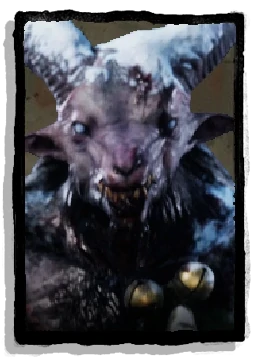
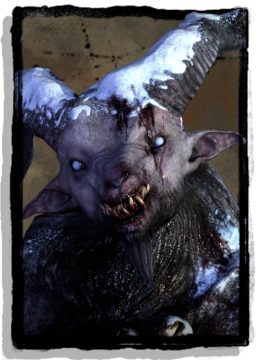
feat: added Chapter 24 survivor and killer, added new ultra rare skins for Oni and Spirit, updated character portraits for various alternate skins

diff --git a/utils/Killers.js b/utils/Killers.js
@@ -27,25 +27,25 @@ export const killersArray = [
         name: "The Nurse",
         image: "https://raw.githubusercontent.com/joeytierney/deadbydaylight-randomizer/main/public/assets/character-portraits/killers/04-the-nurse.png",
         realName: "Sally Smithson",
-        dlc: "CHAPTER I: The Last Breath",
+        dlc: "CHAPTER 1: The Last Breath",
       },
       {
         name: "The Shape",
         image: "https://raw.githubusercontent.com/joeytierney/deadbydaylight-randomizer/main/public/assets/character-portraits/killers/05-the-shape.png",
         realName: "Michael Myers",
-        dlc: "CHAPTER II: HALLOWEEN®",
+        dlc: "CHAPTER 2: HALLOWEEN®",
       },
       {
         name: "The Hag",
         image: "https://raw.githubusercontent.com/joeytierney/deadbydaylight-randomizer/main/public/assets/character-portraits/killers/06-the-hag.png",
         realName: "Lisa Sherwood",
-        dlc: "CHAPTER III: Of Flesh and Mud",
+        dlc: "CHAPTER 3: Of Flesh and Mud",
       },
       {
         name: "The Doctor",
         image: "https://raw.githubusercontent.com/joeytierney/deadbydaylight-randomizer/main/public/assets/character-portraits/killers/07-the-doctor.png",
         realName: "Herman Carter",
-        dlc: "CHAPTER IV: Spark of Madness",
+        dlc: "CHAPTER 4: Spark of Madness",
       },
       {
         name: "The Look-See",
@@ -57,7 +57,7 @@ export const killersArray = [
         name: "The Huntress",
         image: "https://raw.githubusercontent.com/joeytierney/deadbydaylight-randomizer/main/public/assets/character-portraits/killers/08-the-huntress.png",
         realName: "Anna",
-        dlc: "CHAPTER V: A Lullaby for the Dark",
+        dlc: "CHAPTER 5: A Lullaby for the Dark",
       },
       {
         name: "The Mordeo",
@@ -75,61 +75,67 @@ export const killersArray = [
         name: "The Cannibal",
         image: "https://raw.githubusercontent.com/joeytierney/deadbydaylight-randomizer/main/public/assets/character-portraits/killers/09-the-cannibal.png",
         realName: "Bubba Sawyer",
-        dlc: "PARAGRAPH II: LEATHERFACE™",
+        dlc: "PARAGRAPH 2: LEATHERFACE™",
       },
       {
         name: "The Nightmare",
         image: "https://raw.githubusercontent.com/joeytierney/deadbydaylight-randomizer/main/public/assets/character-portraits/killers/10-the-nightmare.png",
         realName: "Freddy Krueger",
-        dlc: "CHAPTER VI: A Nightmare on Elm Street™",
+        dlc: "CHAPTER 6: A Nightmare on Elm Street™",
       },
       {
         name: "The Pig",
         image: "https://raw.githubusercontent.com/joeytierney/deadbydaylight-randomizer/main/public/assets/character-portraits/killers/11-the-pig.png",
         realName: "Amanda Young",
-        dlc: "CHAPTER VII: SAW™",
+        dlc: "CHAPTER 7: SAW™",
       },
       {
         name: "The Clown",
         image: "https://raw.githubusercontent.com/joeytierney/deadbydaylight-randomizer/main/public/assets/character-portraits/killers/12-the-clown.png",
         realName: "Jeffrey Hawk",
-        dlc: "CHAPTER VIII: Curtain Call",
+        dlc: "CHAPTER 8: Curtain Call",
       },
       {
         name: "The Spirit",
         image: "https://raw.githubusercontent.com/joeytierney/deadbydaylight-randomizer/main/public/assets/character-portraits/killers/13-the-spirit.png",
         realName: "Rin Yamaoka",
-        dlc: "CHAPTER IX: Shattered Bloodline",
+        dlc: "CHAPTER 9: Shattered Bloodline",
+      },
+      {
+        name: "The War Hammer Titan",
+        image: "https://raw.githubusercontent.com/joeytierney/deadbydaylight-randomizer/main/public/assets/character-portraits/killers/13a-the-war-hammer-titan.png",
+        realName: "Lara Tybur",
+        dlc: "ULTRA-RARE SKIN FOR: The Spirit",
       },
       {
         name: "The Legion",
         image: "https://raw.githubusercontent.com/joeytierney/deadbydaylight-randomizer/main/public/assets/character-portraits/killers/14-the-legion.png",
         realName: "Frank, Julie, Susie & Joey",
-        dlc: "CHAPTER X: Darkness Among Us",
+        dlc: "CHAPTER 10: Darkness Among Us",
       },
       {
         name: "The Plague",
         image: "https://raw.githubusercontent.com/joeytierney/deadbydaylight-randomizer/main/public/assets/character-portraits/killers/15-the-plague.png",
         realName: "Adiris",
-        dlc: "CHAPTER XI: Demise of the Faithful",
+        dlc: "CHAPTER 11: Demise of the Faithful",
       },
       {
         name: "The Ghost Face",
         image: "https://raw.githubusercontent.com/joeytierney/deadbydaylight-randomizer/main/public/assets/character-portraits/killers/16-the-ghost-face.png",
         realName: "Danny Johnson",
-        dlc: "CHAPTER XII: Ghost Face®",
+        dlc: "CHAPTER 12: Ghost Face®",
       },
       {
         name: "The Demogorgon",
         image: "https://raw.githubusercontent.com/joeytierney/deadbydaylight-randomizer/main/public/assets/character-portraits/killers/17-the-demogorgon.png",
         realName: "DemoPls",
-        dlc: "CHAPTER XIII: Stranger Things",
+        dlc: "CHAPTER 13: Stranger Things",
       },
       {
         name: "The Oni",
         image: "https://raw.githubusercontent.com/joeytierney/deadbydaylight-randomizer/main/public/assets/character-portraits/killers/18-the-oni.png",
         realName: "Kazan Yamaoka",
-        dlc: "CHAPTER XIV: Cursed Legacy",
+        dlc: "CHAPTER 14: Cursed Legacy",
       },
       {
         name: "The Minotaur",
@@ -138,22 +144,28 @@ export const killersArray = [
         dlc: "ULTRA-RARE SKIN FOR: The Oni",
       },
       {
+        name: "The Armoured Titan",
+        image: "https://raw.githubusercontent.com/joeytierney/deadbydaylight-randomizer/main/public/assets/character-portraits/killers/18b-the-armoured-titan.png",
+        realName: "Reiner Braun",
+        dlc: "ULTRA-RARE SKIN FOR: The Oni",
+      },
+      {
         name: "The Deathslinger",
         image: "https://raw.githubusercontent.com/joeytierney/deadbydaylight-randomizer/main/public/assets/character-portraits/killers/19-the-deathslinger.png",
         realName: "Caleb Quinn",
-        dlc: "CHAPTER XV: Chains of Hate",
+        dlc: "CHAPTER 15: Chains of Hate",
       },
       {
         name: "The Executioner",
         image: "https://raw.githubusercontent.com/joeytierney/deadbydaylight-randomizer/main/public/assets/character-portraits/killers/20-the-executioner.png",
         realName: "Pyramid Head",
-        dlc: "CHAPTER XVI: Silent Hill",
+        dlc: "CHAPTER 16: Silent Hill",
       },
       {
         name: "The Blight",
         image: "https://raw.githubusercontent.com/joeytierney/deadbydaylight-randomizer/main/public/assets/character-portraits/killers/21-the-blight.png",
         realName: "Talbot Grimes",
-        dlc: "CHAPTER XVII: Descend Beyond",
+        dlc: "CHAPTER 17: Descend Beyond",
       },
       {
         name: "The Ferryman",
@@ -165,25 +177,25 @@ export const killersArray = [
         name: "The Twins",
         image: "https://raw.githubusercontent.com/joeytierney/deadbydaylight-randomizer/main/public/assets/character-portraits/killers/22-the-twins.png",
         realName: "Victor & Charlotte Deshayes",
-        dlc: "CHAPTER XVIII: A Binding of Kin",
+        dlc: "CHAPTER 18: A Binding of Kin",
       },
       {
         name: "The Trickster",
         image: "https://raw.githubusercontent.com/joeytierney/deadbydaylight-randomizer/main/public/assets/character-portraits/killers/23-the-trickster.png",
         realName: "Ji-Woon Hak",
-        dlc: "CHAPTER XIX: All-Kill",
+        dlc: "CHAPTER 19: All-Kill",
       },
       {
         name: "The Nemesis",
         image: "https://raw.githubusercontent.com/joeytierney/deadbydaylight-randomizer/main/public/assets/character-portraits/killers/24-the-nemesis.png",
         realName: "Nemesis T-Type",
-        dlc: "CHAPTER XX: Resident Evil",
+        dlc: "CHAPTER 20: Resident Evil",
       },
       {
         name: "The Cenobite",
         image: "https://raw.githubusercontent.com/joeytierney/deadbydaylight-randomizer/main/public/assets/character-portraits/killers/25-the-cenobite.png",
         realName: "Elliot Spencer",
-        dlc: "CHAPTER XXI: Hellraiser™",
+        dlc: "CHAPTER 21: Hellraiser™",
       },
       {
         name: "The Chatterer",
@@ -195,12 +207,18 @@ export const killersArray = [
         name: "The Artist",
         image: "https://raw.githubusercontent.com/joeytierney/deadbydaylight-randomizer/main/public/assets/character-portraits/killers/26-the-artist.png",
         realName: "Carmina Mora",
-        dlc: "CHAPTER XXII: Portrait of a Murder",
+        dlc: "CHAPTER 22: Portrait of a Murder",
       },
       {
         name: "The Onryō",
         image: "https://raw.githubusercontent.com/joeytierney/deadbydaylight-randomizer/main/public/assets/character-portraits/killers/27-the-onryo.png",
         realName: "Sadako Yamamura",
-        dlc: "CHAPTER XXIII: Sadako Rising",
+        dlc: "CHAPTER 23: Sadako Rising",
+      },
+      {
+        name: "The Dredge",
+        image: "https://raw.githubusercontent.com/joeytierney/deadbydaylight-randomizer/main/public/assets/character-portraits/killers/28-the-dredge.png",
+        realName: "Unknown",
+        dlc: "CHAPTER 24: Roots of Dread",
       },
 ]

diff --git a/utils/Survivors.js b/utils/Survivors.js
@@ -22,77 +22,77 @@ export const survivorsArray = [
       {
         name: "Nea Karlsson",
         image: "https://raw.githubusercontent.com/joeytierney/deadbydaylight-randomizer/main/public/assets/character-portraits/survivors/05-nea-karlsson.png",
-        dlc: "CHAPTER I: The Last Breath",
+        dlc: "CHAPTER 1: The Last Breath",
       },
       {
         name: 'William "Bill" Overbeck',
         image: "https://raw.githubusercontent.com/joeytierney/deadbydaylight-randomizer/main/public/assets/character-portraits/survivors/06-bill-overbeck.png",
-        dlc: "PARAGRAPH I: Left Behind",
+        dlc: "PARAGRAPH 1: Left Behind",
       },
       {
         name: "David King",
         image: "https://raw.githubusercontent.com/joeytierney/deadbydaylight-randomizer/main/public/assets/character-portraits/survivors/07-david-king.png",
-        dlc: "CHAPTER V: A Lullaby for the Dark",
+        dlc: "CHAPTER 5: A Lullaby for the Dark",
       },
       {
         name: "Laurie Strode",
         image: "https://raw.githubusercontent.com/joeytierney/deadbydaylight-randomizer/main/public/assets/character-portraits/survivors/08-laurie-strode.png",
-        dlc: "CHAPTER II: HALLOWEEN®",
+        dlc: "CHAPTER 2: HALLOWEEN®",
       },
       {
         name: "Ace Visconti",
         image: "https://raw.githubusercontent.com/joeytierney/deadbydaylight-randomizer/main/public/assets/character-portraits/survivors/09-ace-visconti.png",
-        dlc: "CHAPTER III: Of Flesh and Mud",
+        dlc: "CHAPTER 3: Of Flesh and Mud",
       },
       {
         name: "Feng Min",
         image: "https://raw.githubusercontent.com/joeytierney/deadbydaylight-randomizer/main/public/assets/character-portraits/survivors/10-feng-min.png",
-        dlc: "CHAPTER IV: Spark of Madness",
+        dlc: "CHAPTER 4: Spark of Madness",
       },
       {
         name: "Quentin Smith",
         image: "https://raw.githubusercontent.com/joeytierney/deadbydaylight-randomizer/main/public/assets/character-portraits/survivors/11-quentin-smith.png",
-        dlc: "CHAPTER VI: A Nightmare on Elm Street™",
+        dlc: "CHAPTER 6: A Nightmare on Elm Street™",
       },
       {
         name: "Detective David Tapp",
         image: "https://raw.githubusercontent.com/joeytierney/deadbydaylight-randomizer/main/public/assets/character-portraits/survivors/12-detective-david-tapp.png",
-        dlc: "CHAPTER VII: SAW™",
+        dlc: "CHAPTER 7: SAW™",
       },
       {
         name: "Kate Denson",
         image: "https://raw.githubusercontent.com/joeytierney/deadbydaylight-randomizer/main/public/assets/character-portraits/survivors/13-kate-denson.png",
-        dlc: "CHAPTER VIII: Curtain Call",
+        dlc: "CHAPTER 8: Curtain Call",
       },
       {
         name: "Adam Francis",
         image: "https://raw.githubusercontent.com/joeytierney/deadbydaylight-randomizer/main/public/assets/character-portraits/survivors/14-adam-francis.png",
-        dlc: "CHAPTER IX: Shattered Bloodline",
+        dlc: "CHAPTER 9: Shattered Bloodline",
       },
       {
         name: "Jeff Johansen",
         image: "https://raw.githubusercontent.com/joeytierney/deadbydaylight-randomizer/main/public/assets/character-portraits/survivors/15-jeff-johansen.png",
-        dlc: "CHAPTER X: Darkness Among Us",
+        dlc: "CHAPTER 10: Darkness Among Us",
       },
       {
         name: "Jane Romero",
         image: "https://raw.githubusercontent.com/joeytierney/deadbydaylight-randomizer/main/public/assets/character-portraits/survivors/16-jane-romero.png",
-        dlc: "CHAPTER XI: Demise of the Faithful",
+        dlc: "CHAPTER 11: Demise of the Faithful",
       },
       {
         name: "Ashley J. Williams",
         image: "https://raw.githubusercontent.com/joeytierney/deadbydaylight-randomizer/main/public/assets/character-portraits/survivors/17-ash-williams.png",
-        dlc: "PARAGRAPH III: Ash vs Evil Dead",
+        dlc: "PARAGRAPH 3: Ash vs Evil Dead",
       },
       {
         name: "Nancy Wheeler",
         image: "https://raw.githubusercontent.com/joeytierney/deadbydaylight-randomizer/main/public/assets/character-portraits/survivors/18-nancy-wheeler.png",
-        dlc: "CHAPTER XIII: Stranger Things",
+        dlc: "CHAPTER 13: Stranger Things",
       },
       {
         name: "Steve Harrington",
         image: "https://raw.githubusercontent.com/joeytierney/deadbydaylight-randomizer/main/public/assets/character-portraits/survivors/19-steve-harrington.png",
-        dlc: "CHAPTER XIII: Stranger Things",
+        dlc: "CHAPTER 13: Stranger Things",
       },
       {
         name: "Jonathan Byers",
@@ -102,17 +102,17 @@ export const survivorsArray = [
       {
         name: "Yui Kimura",
         image: "https://raw.githubusercontent.com/joeytierney/deadbydaylight-randomizer/main/public/assets/character-portraits/survivors/20-yui-kimura.png",
-        dlc: "CHAPTER XIV: Cursed Legacy",
+        dlc: "CHAPTER 14: Cursed Legacy",
       },
       {
         name: "Zarina Kassir",
         image: "https://raw.githubusercontent.com/joeytierney/deadbydaylight-randomizer/main/public/assets/character-portraits/survivors/21-zarina-kassir.png",
-        dlc: "CHAPTER XV: Chains of Hate",
+        dlc: "CHAPTER 15: Chains of Hate",
       },
       {
         name: "Cheryl Mason",
         image: "https://raw.githubusercontent.com/joeytierney/deadbydaylight-randomizer/main/public/assets/character-portraits/survivors/22-cheryl-mason.png",
-        dlc: "CHAPTER XVI: Silent Hill",
+        dlc: "CHAPTER 16: Silent Hill",
       },
       {
         name: "Lisa Garland",
@@ -132,22 +132,22 @@ export const survivorsArray = [
       {
         name: "Felix Richter",
         image: "https://raw.githubusercontent.com/joeytierney/deadbydaylight-randomizer/main/public/assets/character-portraits/survivors/23-felix-richter.png",
-        dlc: "CHAPTER XVII: Descend Beyond",
+        dlc: "CHAPTER 17: Descend Beyond",
       },
       {
         name: "Élodie Rakoto",
         image: "https://raw.githubusercontent.com/joeytierney/deadbydaylight-randomizer/main/public/assets/character-portraits/survivors/24-elodie-rakoto.png",
-        dlc: "CHAPTER XVIII: A Binding of Kin",
+        dlc: "CHAPTER 18: A Binding of Kin",
       },
       {
         name: "Yun-Jin Lee",
         image: "https://raw.githubusercontent.com/joeytierney/deadbydaylight-randomizer/main/public/assets/character-portraits/survivors/25-yun-jin-lee.png",
-        dlc: "CHAPTER XIX: All-Kill",
+        dlc: "CHAPTER 19: All-Kill",
       },
       {
         name: "Jill Valentine",
         image: "https://raw.githubusercontent.com/joeytierney/deadbydaylight-randomizer/main/public/assets/character-portraits/survivors/26-jill-valentine.png",
-        dlc: "CHAPTER XX: Resident Evil",
+        dlc: "CHAPTER 20: Resident Evil",
       },
       {
         name: "Claire Redfield",
@@ -157,7 +157,7 @@ export const survivorsArray = [
       {
         name: "Leon S. Kennedy",
         image: "https://raw.githubusercontent.com/joeytierney/deadbydaylight-randomizer/main/public/assets/character-portraits/survivors/27-leon-s-kennedy.png",
-        dlc: "CHAPTER XX: Resident Evil",
+        dlc: "CHAPTER 20: Resident Evil",
       },
       {
         name: "Chris Redfield",
@@ -167,16 +167,21 @@ export const survivorsArray = [
       {
         name: "Mikaela Reid",
         image: "https://raw.githubusercontent.com/joeytierney/deadbydaylight-randomizer/main/public/assets/character-portraits/survivors/28-mikaela-reid.png",
-        dlc: "PARAGRAPH IV: Hour of the Witch",
+        dlc: "PARAGRAPH 4: Hour of the Witch",
       },
       {
         name: "Jonah Vasquez",
         image: "https://raw.githubusercontent.com/joeytierney/deadbydaylight-randomizer/main/public/assets/character-portraits/survivors/29-jonah-vasquez.png",
-        dlc: "CHAPTER XXII: Portrait of a Murder",
+        dlc: "CHAPTER 22: Portrait of a Murder",
       },
       {
         name: "Yoichi Asakawa",
         image: "https://raw.githubusercontent.com/joeytierney/deadbydaylight-randomizer/main/public/assets/character-portraits/survivors/30-yoichi-asakawa.png",
-        dlc: "CHAPTER XXIII: Sadako Rising",
+        dlc: "CHAPTER 23: Sadako Rising",
+      },
+      {
+        name: "Haddie Kaur",
+        image: "https://raw.githubusercontent.com/joeytierney/deadbydaylight-randomizer/main/public/assets/character-portraits/survivors/31-haddie-kaur.png",
+        dlc: "CHAPTER 24: Roots of Dread",
       },
 ]
